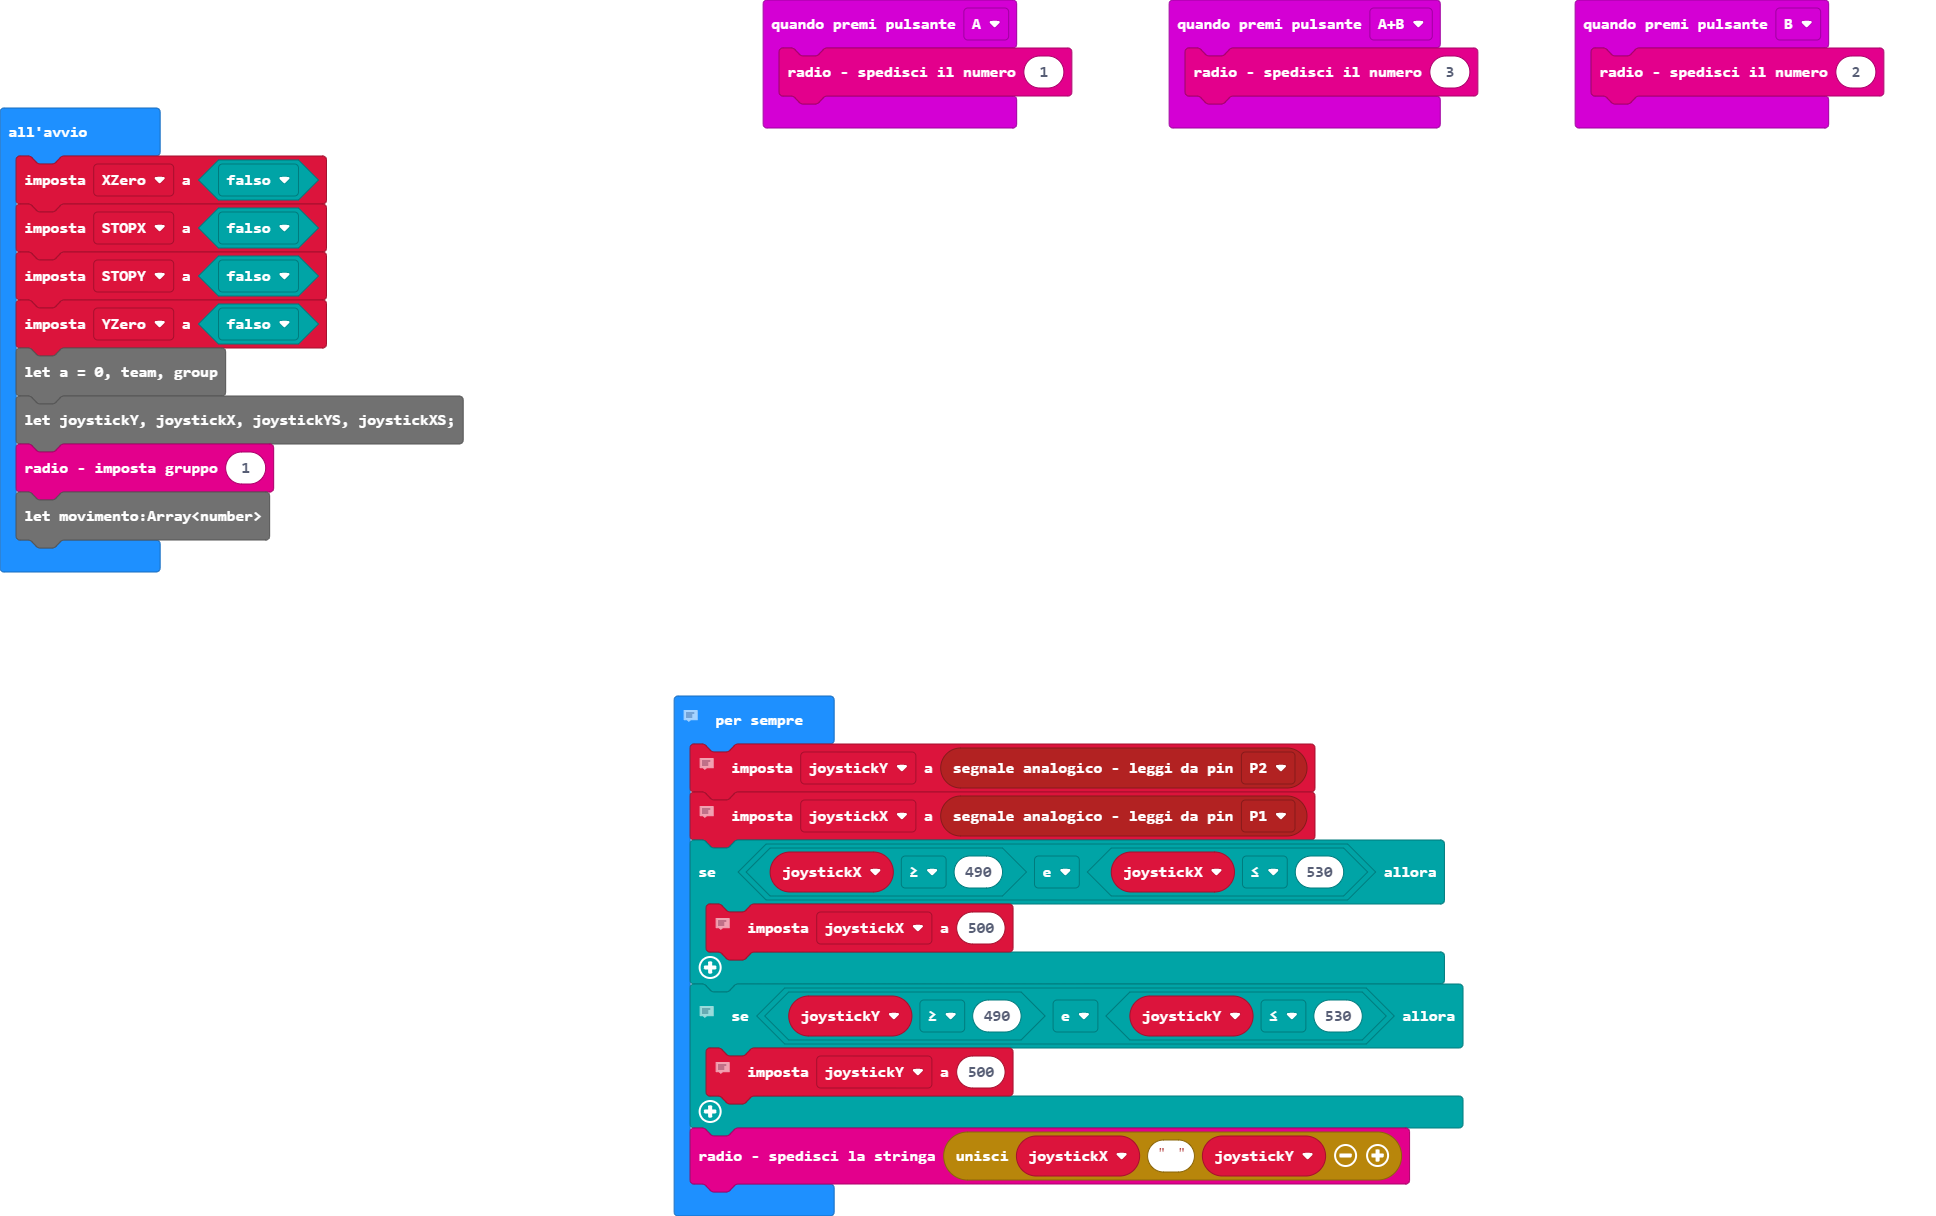
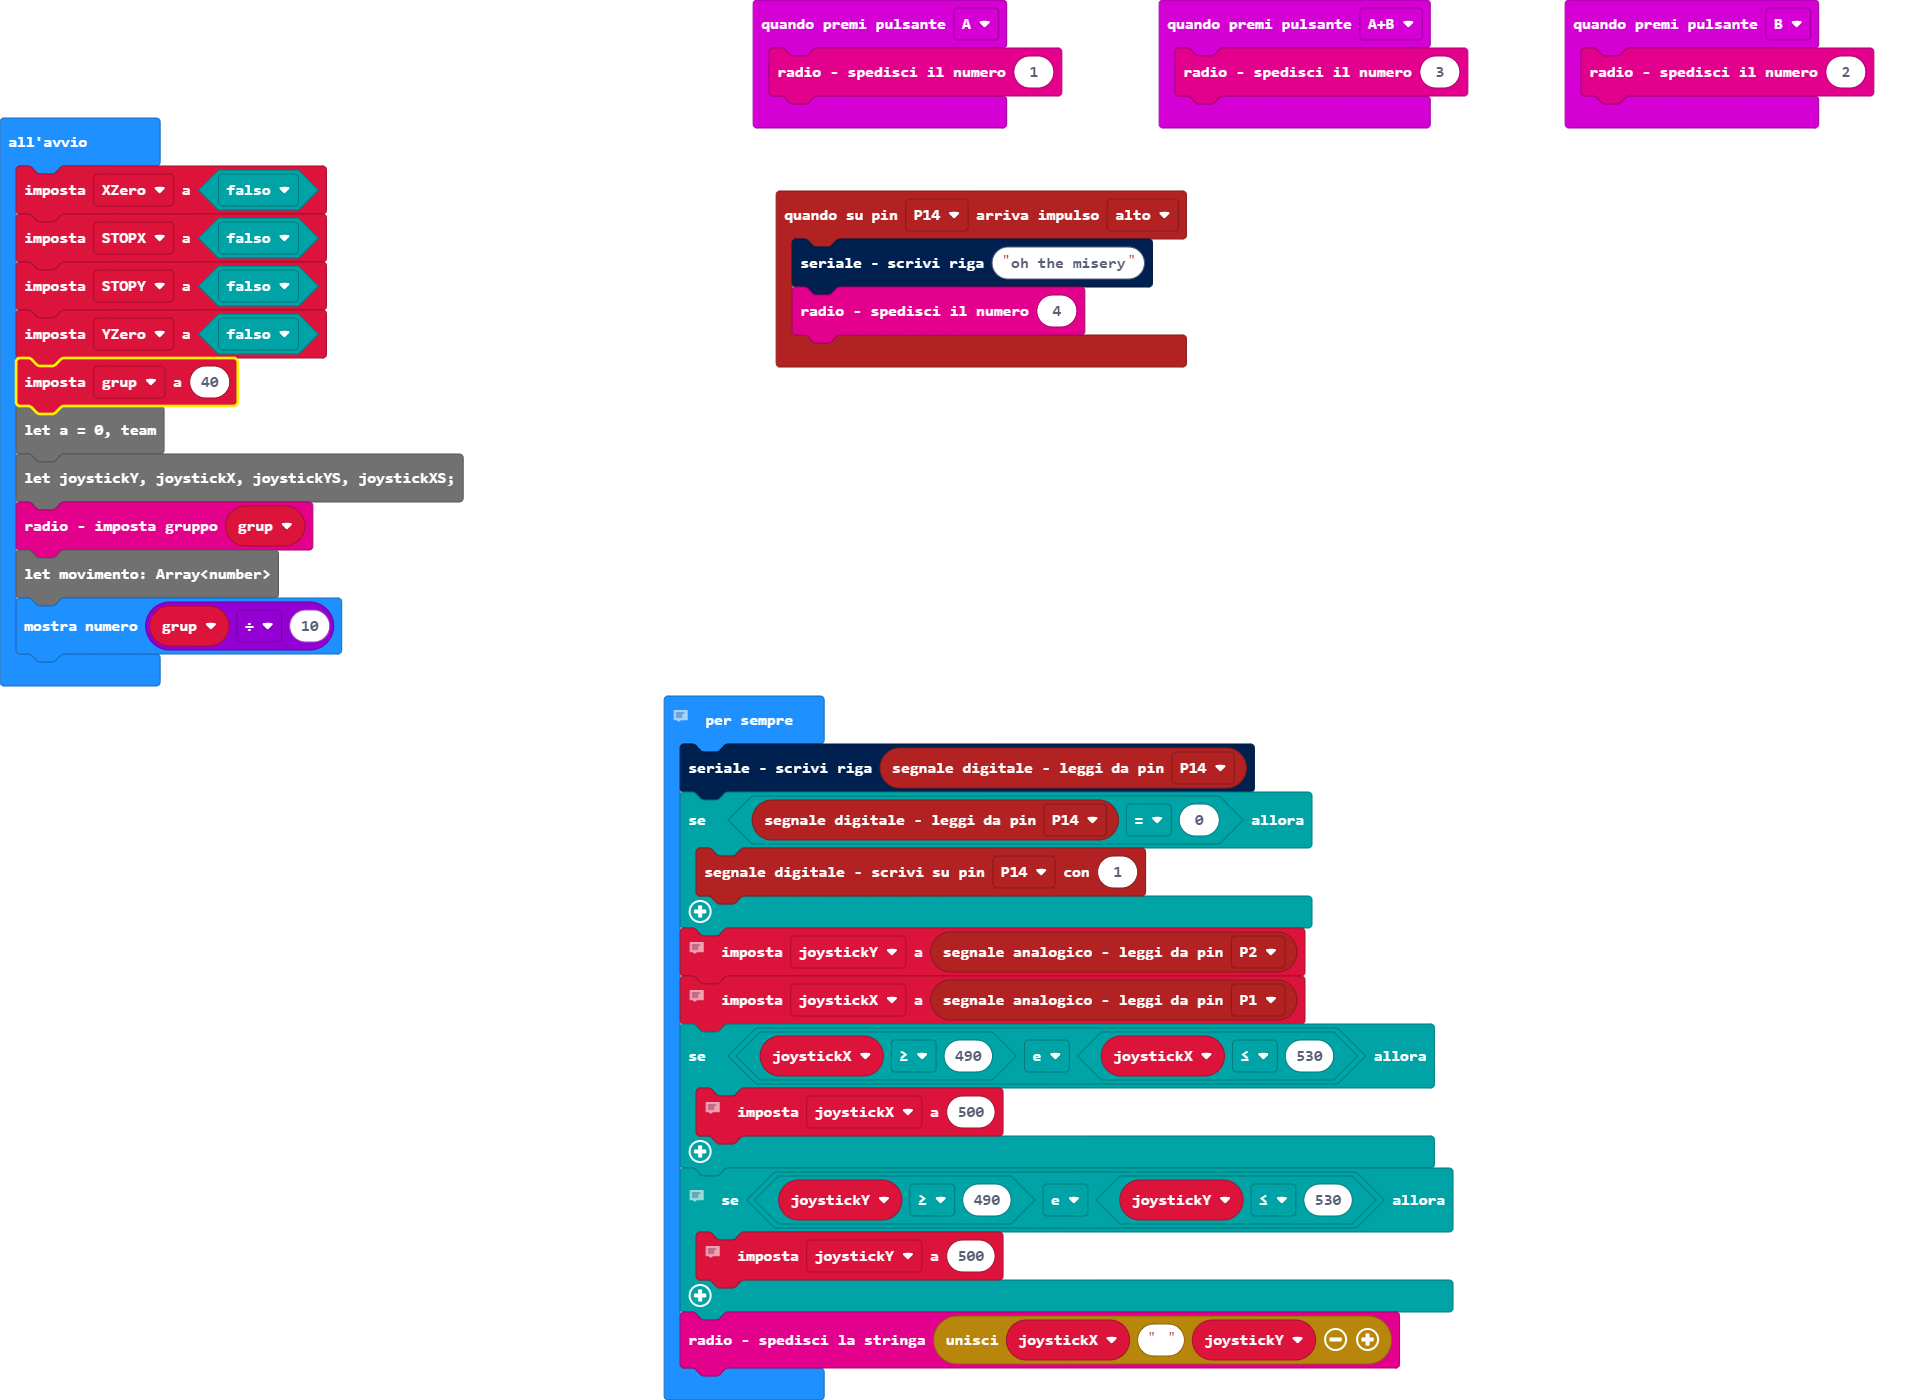
added the "claw" mechanism. the ball can now be grabbed by pressing the D button.

diff --git a/main.ts b/main.ts
@@ -1,3 +1,7 @@
+pins.onPulsed(DigitalPin.P14, PulseValue.High, function () {
+    serial.writeLine("oh the misery")
+    radio.sendNumber(4)
+})
 input.onButtonPressed(Button.A, function () {
     radio.sendNumber(1)
 })
@@ -7,11 +11,11 @@ input.onButtonPressed(Button.AB, function () {
 input.onButtonPressed(Button.B, function () {
     radio.sendNumber(2)
 })
-let grup = 30
-let YZero = false
-let STOPY = false
-let STOPX = false
 let XZero = false
+let STOPX = false
+let STOPY = false
+let YZero = false
+let grup = 40
 let a = 0, team
 let joystickY, joystickX, joystickYS, joystickXS;
 radio.setGroup(grup)
@@ -21,6 +25,10 @@ basic.showNumber(grup / 10)
 // this is used to have a static number, after "1020"
 // the value will result 1023.
 basic.forever(function () {
+    serial.writeLine("" + (pins.digitalReadPin(DigitalPin.P14)))
+    if (pins.digitalReadPin(DigitalPin.P14) == 0) {
+        pins.digitalWritePin(DigitalPin.P14, 1)
+    }
     // read y
     joystickY = pins.analogReadPin(AnalogPin.P2)
     // read X
